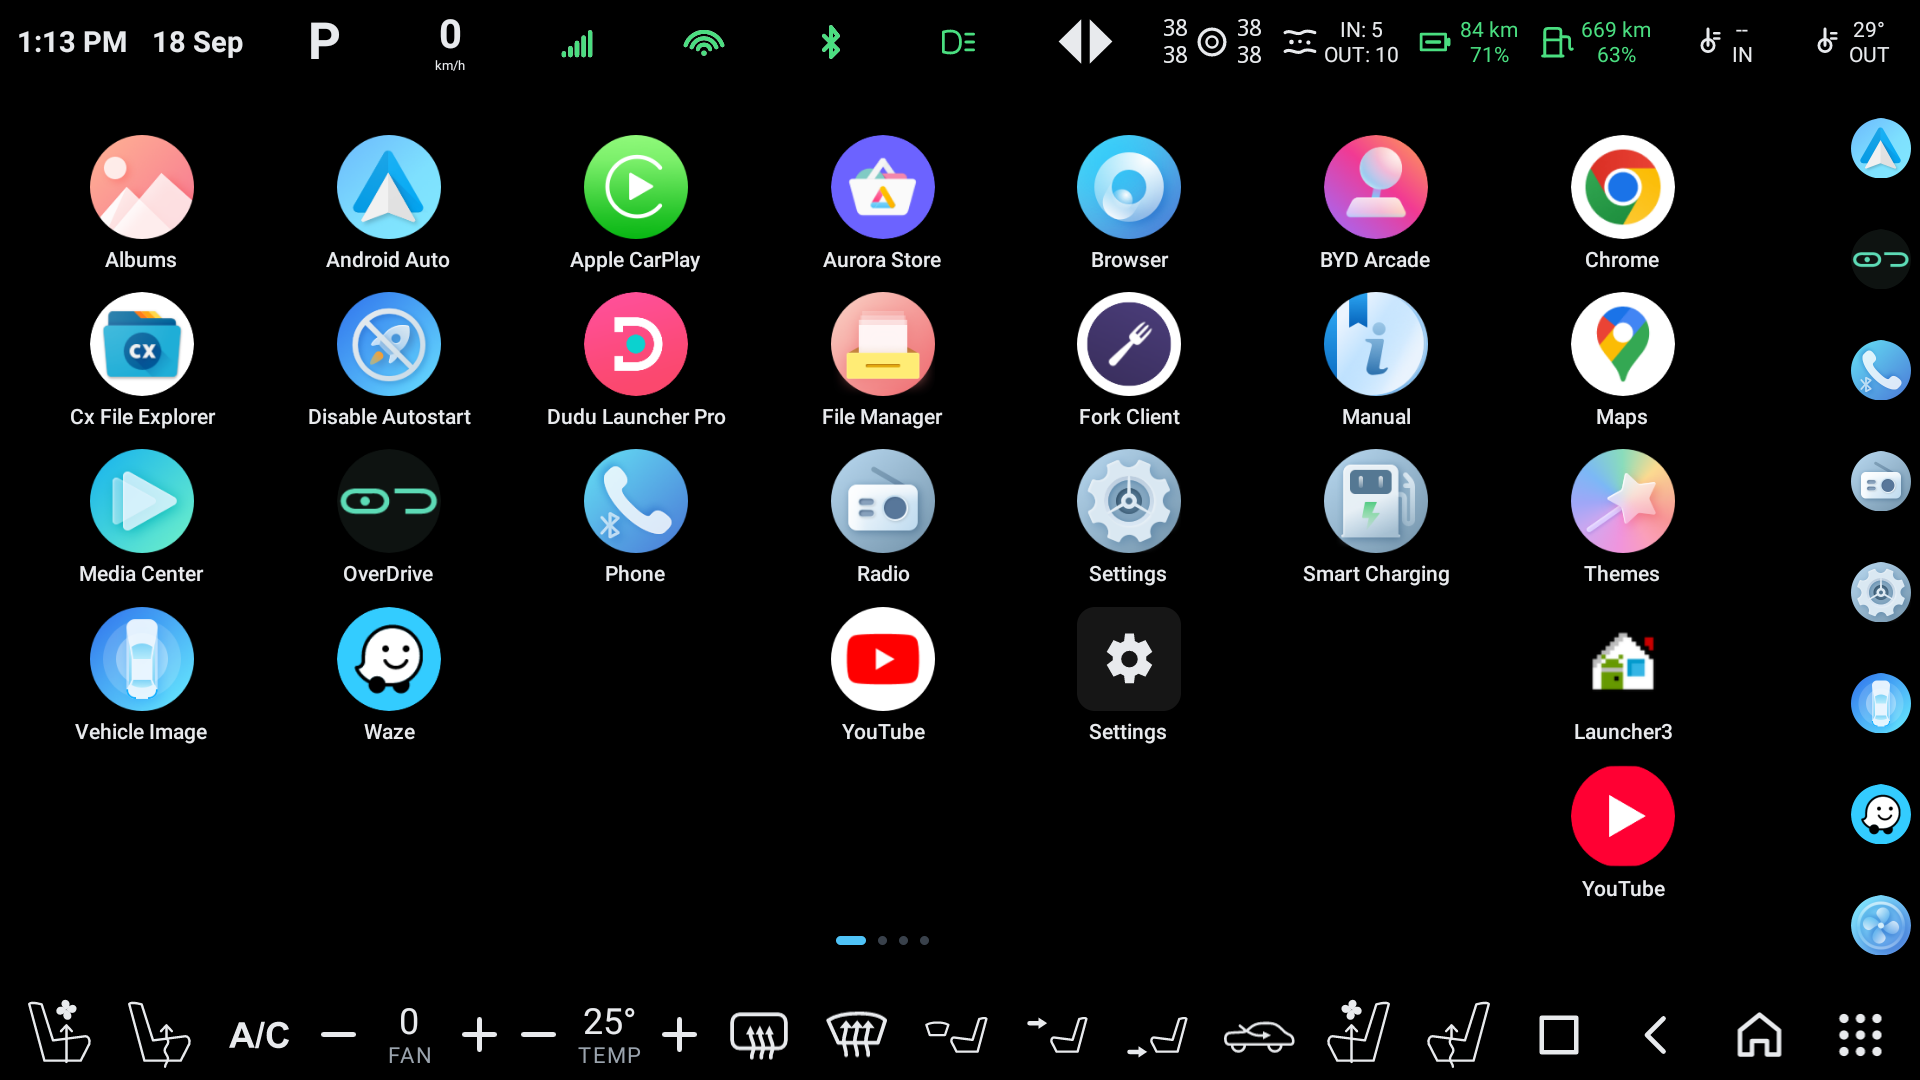
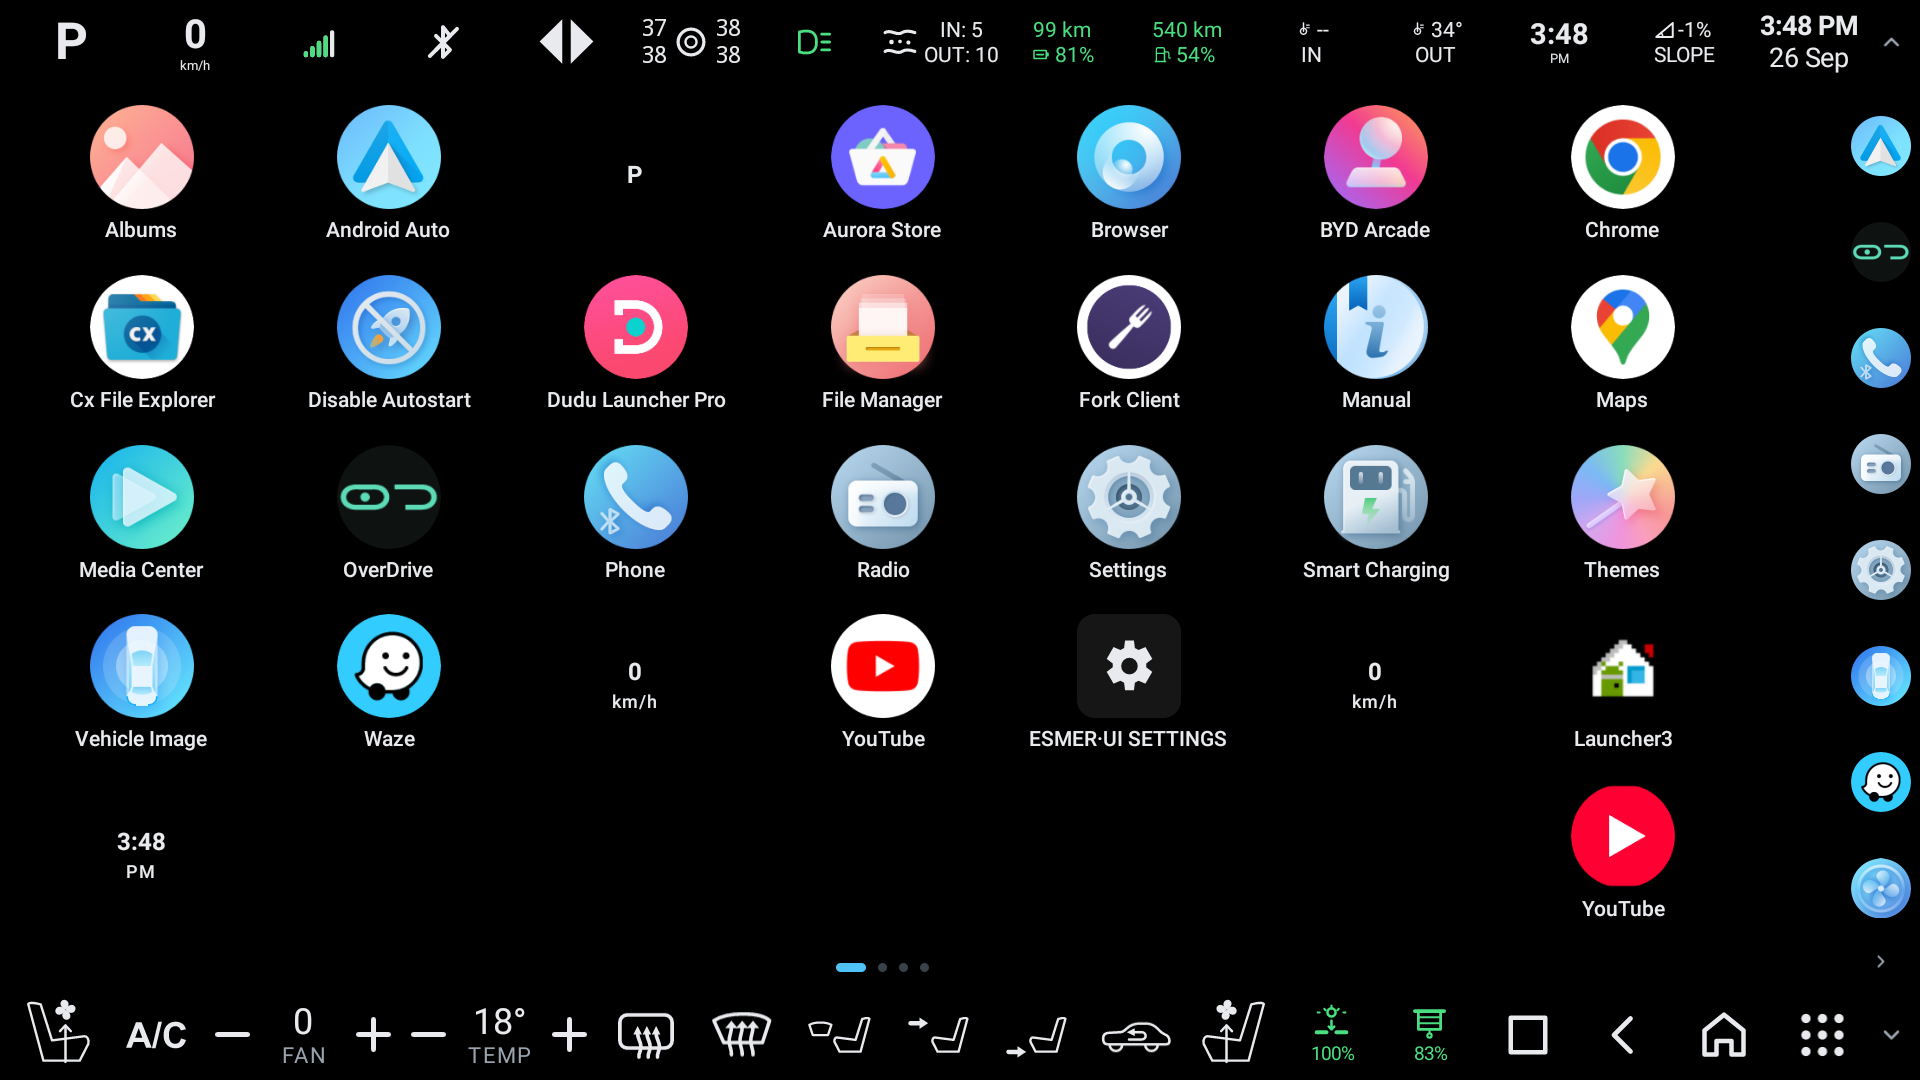
Release 1.1: bump the version, refresh the screenshots, bring the README up to date
Version 1.1 (code 2). The home screenshot is retaken on the current build, and
two settings screenshots are added - the bar tab, and a row being dragged into
place. The README now says the bars sit over the head unit's own rather than
that they take the system bars' strip, lists the body and head-up display
buttons, points at the release APK, and names the WhatsApp group.

Claude-Session: https://claude.ai/code/session_01UXg5BkSkp6v8gwG8x1sANU

diff --git a/README.md b/README.md
@@ -47,8 +47,10 @@ The drawer lists the lot — tap to launch, or switch to `Edit home` and tap to 
 **Edge bars**
 
 Up to four bars — top, bottom, left, right — each independently enabled, sized and
-populated. They are `TYPE_APPLICATION_OVERLAY` windows, so they persist over other
-apps, and can take the system bars' own strip when those are hidden.
+populated. They are overlay windows hosted by the accessibility service, which the
+platform layers above the head unit's own bars, so they persist over other apps and
+sit over BYD's bars without those having to be hidden. Any docked bar folds away to
+a tab in its corner and comes back with a tap.
 
 Each bar holds any mix of:
 
@@ -56,15 +58,25 @@ Each bar holds any mix of:
 - Volume up / down / mute
 - Climate: temperature and fan steppers, A/C, recirculate, front and rear defrost,
   per-vent airflow, seat heating and ventilation, steering wheel heat
+- Body: sunroof, sunshade, each window, tailgate — one press opens, the next stops
+- Head-up display on/off, brightness and height
 - App shortcuts
 - Live readouts (below)
 
+Each bar is set up on its own tab in settings: which edge, full width or floating
+pill, thickness, icon size, and the ordered list of what it carries — drag a row by
+its handle to reorder.
+
+![Bar settings](docs/screenshots/settings-bars.png)
+
+![Reordering a bar's items](docs/screenshots/settings-items.png)
+
 **Live readouts, direct from the car**
 
-Clock, date, gear, road speed, headlight beam, indicators, tyre pressures (bar, psi
-or kPa), electric and fuel range with charge and tank percentages, inside and
-outside temperature, cabin and outside PM2.5, plus Wi-Fi, cellular and Bluetooth
-strength.
+Clock, date, gear, road speed, road slope, headlight beam, indicators, tyre
+pressures (bar, psi or kPa), electric and fuel range with charge and tank
+percentages, inside and outside temperature, cabin and outside PM2.5, plus Wi-Fi,
+cellular and Bluetooth strength.
 
 Values are read from BYD's automotive bus directly — no dependency on any other
 app being installed or running.
@@ -137,10 +149,11 @@ unit where the whole process otherwise sits mapped in memory.
 
 ## Setting it up on the unit
 
-Install, then grant the pieces that cannot be granted from the UI:
+Install — the signed APK from the [latest release](https://github.com/akyuznet/ESMER-UI/releases/latest),
+or your own build — then grant the pieces that cannot be granted from the UI:
 
 ```
-adb install -r app/build/outputs/apk/debug/app-debug.apk
+adb install -r ESMER-UI-1.1.apk
 
 # Hide BYD's own navigation and status bars
 adb shell pm grant com.example.esmerui android.permission.WRITE_SECURE_SETTINGS
@@ -170,6 +183,12 @@ appears on the home screen.
 - Overscan (`IWindowManager.setOverscan`, reflected) is used to reserve the screen
   edges so other apps do not draw under the bars. That API exists on Android 10 only.
 - Idle cost on the unit is roughly 1% of one core and ~50 MB PSS.
+
+## Community
+
+Questions, bug reports and what your car answers on the bus: the
+[ESMER·UI WhatsApp group](https://chat.whatsapp.com/FITclsqasVO7fxmVBlJ8gX?s=cl&p=a&ilr=4&iam=1),
+or [GitHub issues](https://github.com/akyuznet/ESMER-UI/issues).
 
 ## Licence
 
